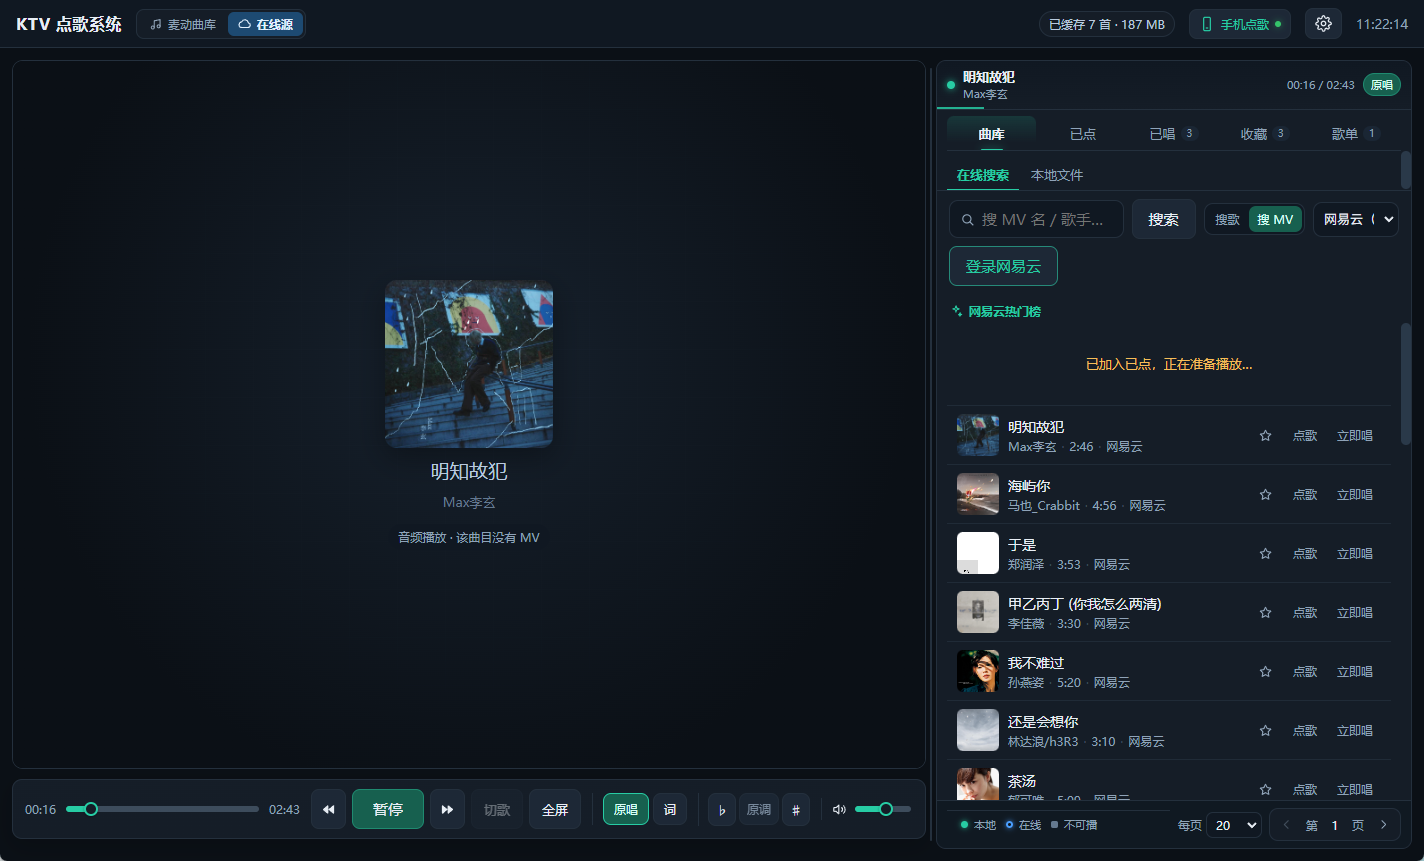
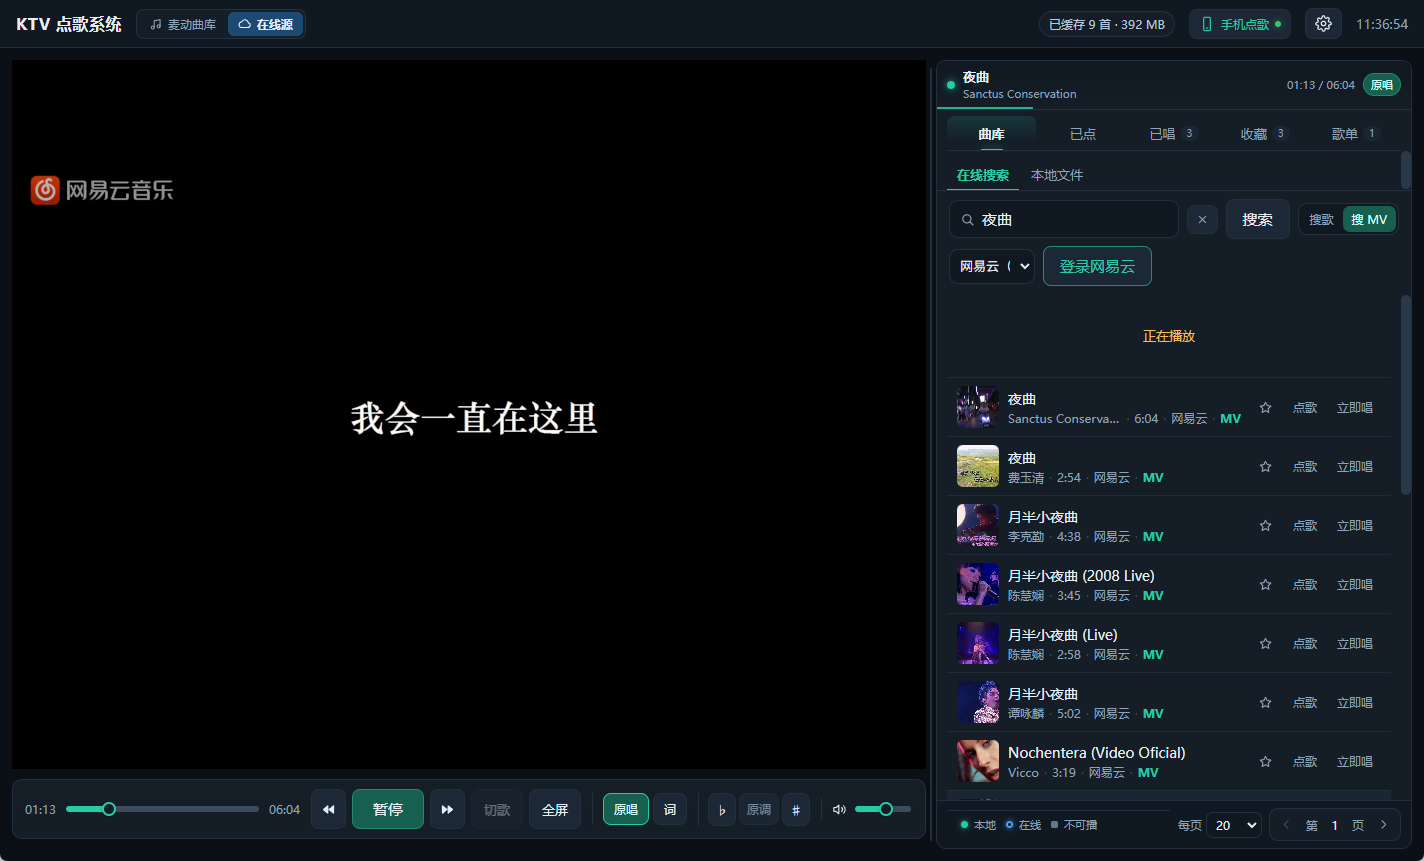
docs: use real MV screenshots and clarify attribution

diff --git a/README.md b/README.md
@@ -1,6 +1,6 @@
 # KTV Desktop
 
-Windows 桌面版 KTV 点歌系统，面向客厅、KTV 包间、触屏点歌机和 Windows 迷你主机。
+Windows 桌面版 KTV 点歌系统，面向客厅、KTV 包间、触屏点歌机和 Windows 迷你主机。项目复用同作者的 `karaoke-companion`，并参考非商业项目 `maidong-ktv` 的实现方案。
 
 > **非商业项目**：本项目仅供个人学习、研究、测试和非商业使用。禁止商业运营、收费使用、售卖、租赁、硬件预装、捆绑分发或提供收费技术支持。详见 [LICENSE](LICENSE)。
 
@@ -36,7 +36,7 @@ Windows 桌面版 KTV 点歌系统，面向客厅、KTV 包间、触屏点歌机
 
 | 来源 | 使用范围 |
 |---|---|
-| `karaoke-companion` (MIT) | Vue 3 前端 UI、歌词组件、在线音乐聚合后端、播放队列业务 |
+| `karaoke-companion`（同作者项目，MIT） | Vue 3 前端 UI、歌词组件、在线音乐聚合后端、播放队列业务 |
 | `maidong-ktv` (非商业许可) | **仅参考实现方案**：原伴唱切换策略、曲库分发格式、取流协议流程 |
 
 > ⚠ **与 maidong-ktv 的关系**：只参考其架构思路与功能行为，不复制源码、界面素材或品牌，也不内置其第三方取流凭证。详见 [docs/00-architecture.md](docs/00-architecture.md) §4。

diff --git a/THIRD_PARTY_NOTICES.md b/THIRD_PARTY_NOTICES.md
@@ -9,8 +9,11 @@ This project is distributed for non-commercial use only. See `LICENSE` for the p
 - License: Maidong non-commercial license
 - Full text: `LICENSES/Maidong-NonCommercial.txt`
 
-## karaoke-companion
+## First-party project reuse
 
+### karaoke-companion
+
+- 同作者项目，由 `weisun23` 开发。
 - License: MIT
 - Full text: `LICENSES/karaoke-companion-MIT.txt`
 

diff --git a/CREDITS.md b/CREDITS.md
@@ -15,6 +15,6 @@
 
 ## karaoke-companion
 
-- Original project maintained by `weisun23`
+- 同作者项目：本项目与 `karaoke-companion` 均由 `weisun23` 开发。
 - License: MIT
 - A copy is included at `LICENSES/karaoke-companion-MIT.txt`
